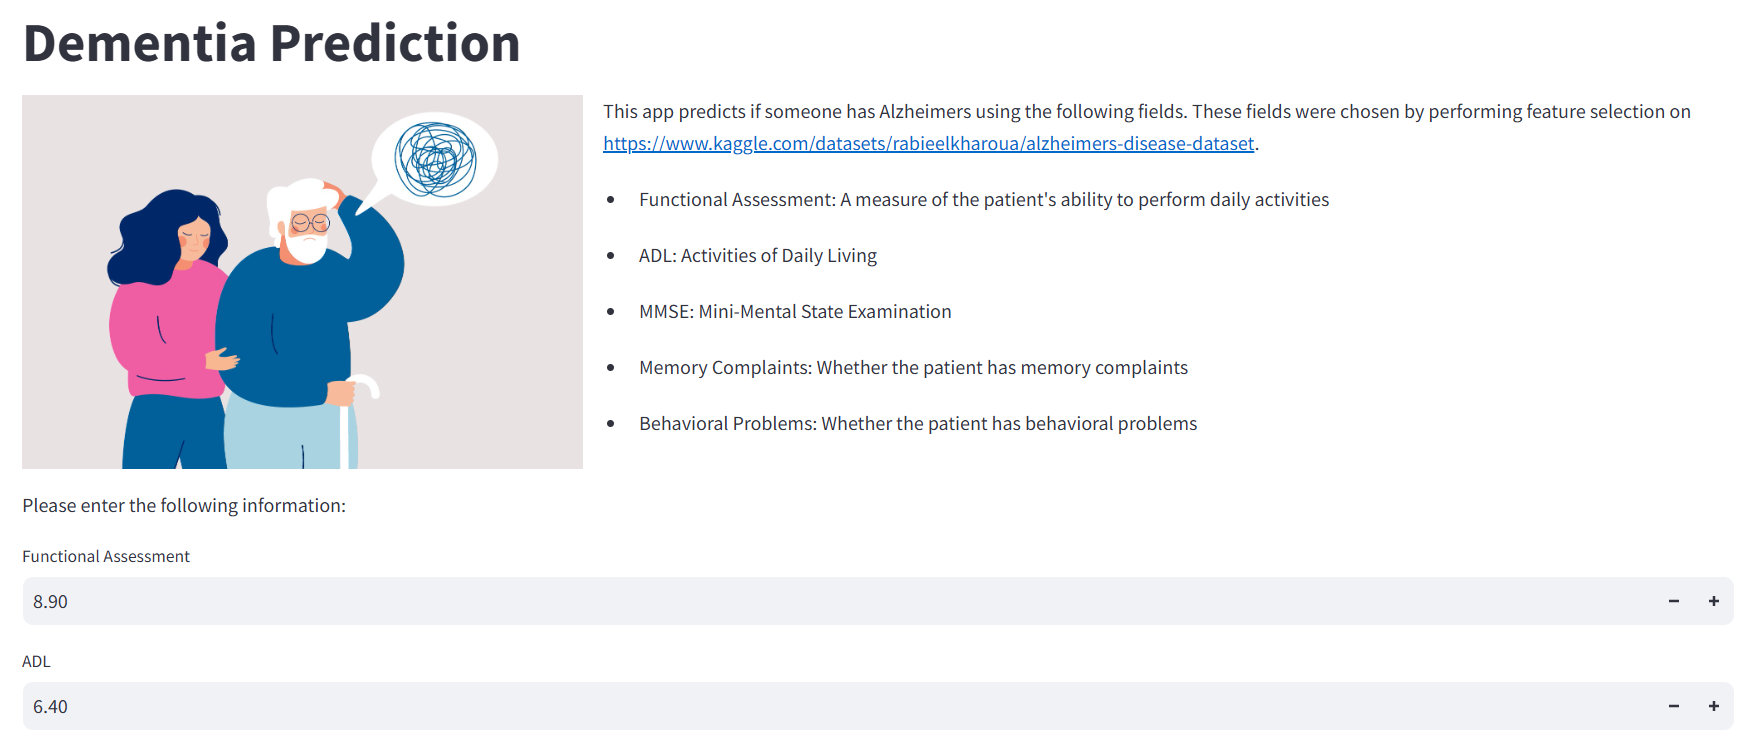
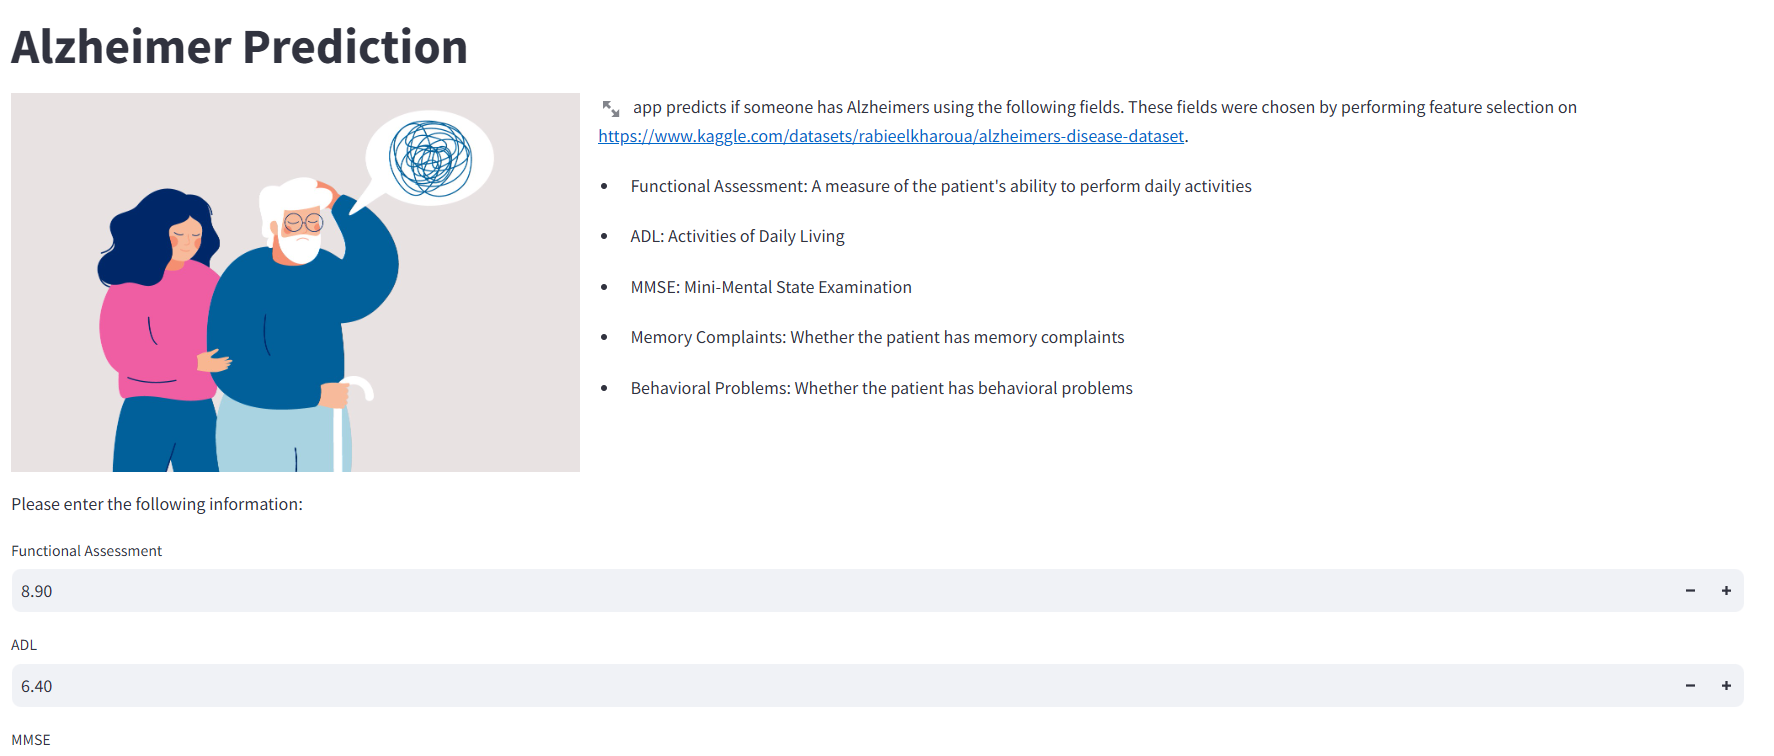
fixes

Changed region(s): [[0.0, 0.1232, 0.9688, 0.8005], [0.0, 0.0308, 0.3125, 0.0924], [0.0, 0.8313, 0.0312, 0.9853]]

diff --git a/app.py b/app.py
@@ -1,7 +1,7 @@
 import streamlit as st
 import requests  # to send HTTP requests
 
-st.title("Dementia Prediction")
+st.title("Alzheimer Prediction")
 # Hero section 2 columns
 col1, col2 = st.columns([1, 2])
 with col1:
@@ -50,7 +50,6 @@ if st.button("Predict"):
     st.write("Prediction Results:")
     if response.status_code == 200:
         result = response.json()  # Parse the JSON response
-        st.write("The bar represents the confidence level of the prediction or probability of the prediction.")
         for model, prediction in result.items():
             st.write(f"{model}: {prediction['pred']}")
             prob=prediction['prob'] if prediction['pred']==1 else 1-prediction['prob']

diff --git a/README.md b/README.md
@@ -103,6 +103,3 @@ Interact with the Interface by giving input values and clicking on `predict` but
 4. Access the interface at `http://localhost:8501/`
 ![alt text](ui1.png)
 ![alt text](ui2.png)
-
-
-
